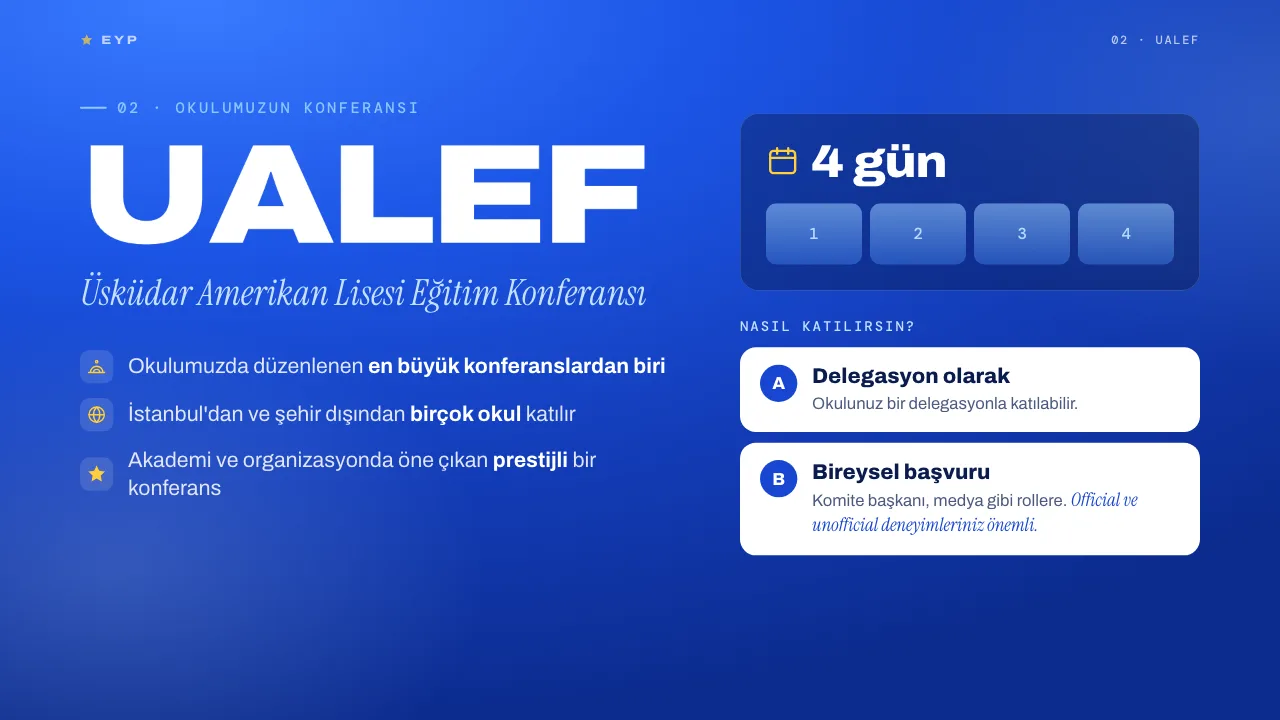
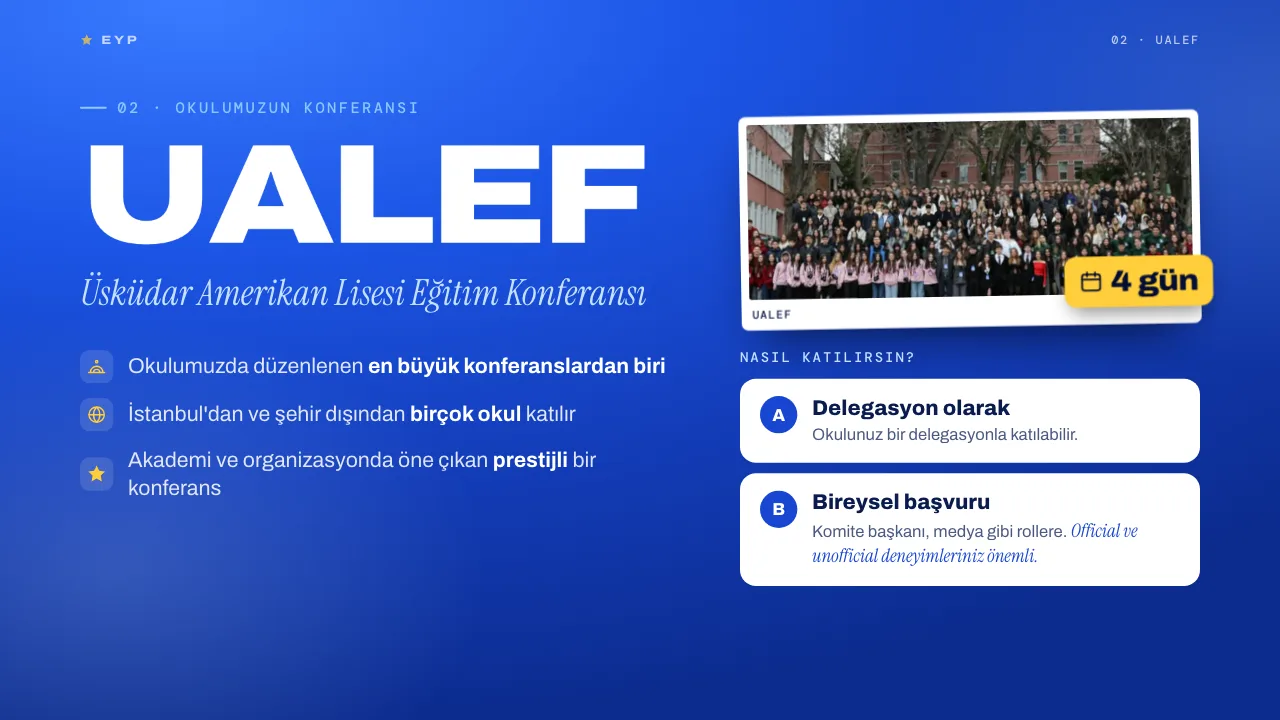
Siteyi güncelle (2026-10-18 21:16)

Changed region(s): [[0.5625, 0.1528, 0.9688, 0.825]]

diff --git a/eyp-nedir/index.html b/eyp-nedir/index.html
@@ -3,7 +3,7 @@
 <head>
 <meta charset="utf-8">
 <meta name="viewport" content="width=device-width,initial-scale=1">
-<title>EYP Nedir? · Avrupa Gençlik Parlamentosu rehberi — Ada Sarp Kırık</title>
+<title>EYP Nedir? · Avrupa Gençlik Parlamentosu rehberi — Ada Sarp K.</title>
 <meta name="description" content="Okul sunumu: Avrupa Gençlik Parlamentosu (EYP) nedir, konferanslar nasıl işler, UALEF, unofficial ve official konferanslar, roller, başvuru adımları ve ipuçları.">
 <meta property="og:title" content="EYP Nedir? · Avrupa Gençlik Parlamentosu rehberi">
 <meta property="og:description" content="Konferans düzeni, UALEF, unofficial ve official EYP, roller, başvuru adımları ve kulüp saatleri için bir plan.">
@@ -13,6 +13,9 @@
 <link rel="stylesheet" href="/assets/fonts/fonts.css">
 <link rel="stylesheet" href="/assets/deck/deck.css">
 <link rel="stylesheet" href="deck.css">
+<link rel="preload" as="image" href="foto/bkvef.jpg">
+<link rel="preload" as="image" href="foto/eskisehir.jpg">
+<link rel="preload" as="image" href="foto/ualef.jpg">
 </head>
 <body class="deck">
 <svg width="0" height="0" style="position:absolute" aria-hidden="true">
@@ -57,7 +60,7 @@
   </div>
   <footer class="cover-foot" data-a="up" data-d="1.3">
     <span class="mono-l">Sunanlar</span>
-    <p>Ata Umut H. <i>·</i> <b>Ada Sarp Kırık</b> <i>·</i> Duru G. <i>·</i> Doruk G.</p>
+    <p>Ata Umut H. <i>·</i> Ada Sarp K. <i>·</i> Duru G. <i>·</i> Doruk G.</p>
   </footer>
 </section>
 
@@ -80,7 +83,7 @@
 </section>
 
 <!-- 03 · EYP NEDİR ================================================= -->
-<section class="scene dark" id="eyp" data-title="EYP nedir?" data-steps="1"
+<section class="scene dark has-ph" id="eyp" data-title="EYP nedir?" data-steps="1"
   data-notes="EYP, 1987'de kurulan, siyasi açıdan bağımsız, kâr amacı gütmeyen bir eğitim organizasyonu. 40'a yakın Avrupa ülkesinde aktif. Konferanslarda gençler komitelerde güncel bir sorunu tartışır, çözüm yazar ve Genel Kurul'da oylar.">
   <header class="run"><svg><use href="#star"/></svg>EYP <span>01 · EYP nedir?</span></header>
   <div class="hd">
@@ -100,12 +103,9 @@
       <p>Avrupa ülkesinde aktif</p>
       <svg class="dots40" viewBox="0 0 560 150" aria-hidden="true"></svg>
     </div>
-    <div class="stat" data-a="up" data-d=".9">
-      <span class="mono-l">Kimler için</span>
-      <b class="big big-w">Gençler</b>
-      <p>Lise öğrencileri ilk konferansa delege olarak katılır</p>
-    </div>
   </div>
+  <figure class="ph ph-a" data-a="up" data-d=".5"><span class="ph-in"><img src="foto/bkvef.jpg" alt="I. BKVEF konferansından bir grup fotoğrafı" width="1400" height="998" decoding="async"></span><figcaption>I. BKVEF</figcaption></figure>
+  <figure class="ph ph-b" data-a="up" data-d=".75"><span class="ph-in"><img src="foto/eskisehir.jpg" alt="Eskişehir Regional Selection konferansından bir grup fotoğrafı" width="1400" height="1092" decoding="async"></span><figcaption>Eskişehir Regional Selection Conf.</figcaption></figure>
   <div class="flow" data-step="1">
     <span class="flow-l mono-l" data-a="up">Konferanslarda</span>
     <ol class="flow-row" data-stagger=".18" data-child="left">
@@ -230,10 +230,9 @@
     </ul>
   </div>
   <div class="ua-r">
-    <div class="days" data-a="up" data-d=".4">
-      <div class="days-h"><svg><use href="#i-cal"/></svg><b><span data-a="count" data-to="4" data-d=".6" data-dur="1">4</span> gün</b></div>
-      <div class="days-row"><i>1</i><i>2</i><i>3</i><i>4</i></div>
-    </div>
+    <figure class="ph ph-ua" data-a="up" data-d=".4"><span class="ph-in"><img src="foto/ualef.jpg" alt="UALEF katılımcılarının okul bahçesindeki grup fotoğrafı" width="1800" height="722" decoding="async"></span><figcaption>UALEF</figcaption>
+      <span class="days-badge" data-a="pop" data-d="1.0"><svg><use href="#i-cal"/></svg><b><span data-a="count" data-to="4" data-d="1.1" data-dur="1">4</span> gün</b></span>
+    </figure>
     <p class="mono-l ua-how" data-a="up" data-d="1.0">Nasıl katılırsın?</p>
     <div class="paths" data-stagger=".14" data-d="1.1">
       <div class="path"><span class="pn">A</span><div><b>Delegasyon olarak</b><p>Okulunuz bir delegasyonla katılabilir.</p></div></div>
@@ -541,7 +540,7 @@
     <p class="kicker" data-a="up" data-d=".2">06 · Soru-cevap</p>
     <h2 class="end-t"><span data-a="words" data-d=".35">Sorularınızı</span> <span data-a="words" data-d=".6">alabiliriz</span> <span class="smile-b" data-a="pop" data-d="1.0">:)</span></h2>
     <p class="end-sub" data-a="up" data-d="1.2">Başvurularda yardım için bize her zaman ulaşabilirsiniz.</p>
-    <p class="end-who" data-a="fade" data-d="1.5">Ata Umut H. · Ada Sarp Kırık · Duru G. · Doruk G.</p>
+    <p class="end-who" data-a="fade" data-d="1.5">Ata Umut H. · Ada Sarp K. · Duru G. · Doruk G.</p>
   </div>
 </section>
 

diff --git a/eyp-nedir/deck.css b/eyp-nedir/deck.css
@@ -447,3 +447,30 @@ em { font-family: var(--f-s); font-style: italic; font-weight: 400; letter-spaci
 .end-who { margin-top: 26px; font: 500 22px/1 var(--f-m); letter-spacing: .1em; color: rgba(198,224,255,.75); }
 
 .scene.instant *, .scene.instant *::before, .scene.instant *::after { transition: none !important; }
+
+/* ---------- fotoğraflar (Canva sunumundan) ---------- */
+.ph { position: absolute; margin: 0; padding: 12px 12px 0; border-radius: 10px; background: #fff; box-shadow: 0 40px 70px -30px rgba(0,0,0,.65); }
+.ph-in { display: block; position: relative; overflow: hidden; border-radius: 4px; background: var(--ice-2); }
+.ph-in img { display: block; width: 100%; height: 100%; object-fit: cover; object-position: 50% 45%; animation: kb 18s ease-in-out infinite alternate; transform-origin: 50% 55%; }
+@keyframes kb { from { scale: 1.02; translate: 0 0; } to { scale: 1.14; translate: -1.5% -1%; } }
+.ph figcaption { padding: 12px 4px 14px; font: 500 17px/1.2 var(--f-m); letter-spacing: .1em; text-transform: uppercase; color: var(--tx); }
+/* EYP nedir? sahnesi: sağda iki çerçeveli fotoğraf, solda sayılar */
+.has-ph .h1 { font-size: 78px; }
+.has-ph .sub { max-width: 1120px; font-size: 34px; }
+.has-ph .stats { width: 1110px; grid-template-columns: 1fr 1.5fr; }
+.has-ph .stat .big { font-size: 118px; }
+.has-ph .dots40 { width: 300px; height: 84px; top: 104px; }
+.ph-a { left: 1320px; top: 132px; width: 420px; rotate: -2.5deg; z-index: 2; }
+.ph-a .ph-in { height: 258px; }
+.ph-b { left: 1392px; top: 474px; width: 400px; rotate: 2.2deg; z-index: 3; }
+.ph-b .ph-in { height: 240px; }
+.ph-b .ph-in img { animation-delay: -9s; }
+/* UALEF: panorama, gün rozeti köşede */
+.ph-ua { position: relative; rotate: -1deg; }
+.ph-ua .ph-in { height: 262px; }
+.days-badge { position: absolute; right: -18px; bottom: 26px; display: flex; align-items: center; gap: 12px; padding: 14px 22px; border-radius: 18px;
+  background: var(--star); color: var(--ink); box-shadow: 0 18px 30px -12px rgba(0,0,0,.5); }
+.days-badge svg { width: 36px; height: 36px; fill: none; stroke: currentColor; stroke-width: 1.8; stroke-linecap: round; }
+.days-badge b { font-size: 44px; font-weight: 850; font-stretch: 112%; letter-spacing: -.02em; }
+.ph-ua + .ua-how { margin-top: 34px; }
+.ph-b figcaption { font-size: 15px; letter-spacing: .05em; white-space: nowrap; }

diff --git a/eyp-nedir/scenes.js b/eyp-nedir/scenes.js
@@ -168,17 +168,6 @@
     reset: function (c) { killWA(c.el); }
   });
 
-  /* ---------- 07 ualef: dört gün dolar ---------- */
-  Deck.scene("ualef", {
-    enter: function (c) {
-      c.$$(".days-row i").forEach(function (d, i) {
-        wa(c, d, [{ scale: "1 0" }, { scale: "1 1" }], { pseudoElement: "::after", duration: 600, delay: 700 + i * 220 });
-        wa(c, d, [{ color: "rgba(255,255,255,.6)" }, { color: "#fff" }], { duration: 400, delay: 800 + i * 220 });
-      });
-    },
-    reset: function (c) { killWA(c.el); }
-  });
-
   /* ---------- 09 sorular: 300 kelimelik sayaç ---------- */
   Deck.scene("sorular", {
     enter: function (c) {
